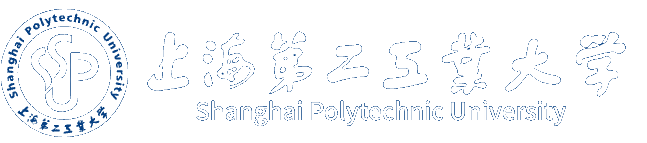
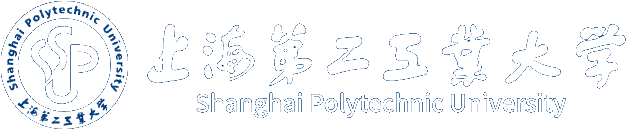
1

diff --git a/网络工程.html b/网络工程.html
@@ -49,10 +49,10 @@
                 box-shadow: 0 10px 25px rgba(0, 0, 0, 0.12);
             }
             .banner-height {
-                height: 100px;
+                height: 80px;
             }
             .logo-container {
-                max-height: 80px;
+                max-height: 60px;
             }
             .校训-container {
                 max-height: 80px;
@@ -74,12 +74,12 @@
         <!-- 主横幅 -->
         <div class="banner-height flex items-center justify-between px-6 md:px-12">
             <!-- 左上角校徽和校名 -->
-            <div class="flex items-center space-x-4">
+            <div class="flex items-center space-x-2">
                 <img src="images/二工大校名校徽6.png" 
                      alt="上海第二工业大学校徽" 
                      class="logo-container">
                 <div>
-                    <div class="text-xl md:text-3xl font-bold">招生网</div>
+                    <div class="text-xl md:text-3xl">| 招生网</div>
                 </div>
             </div>
             
